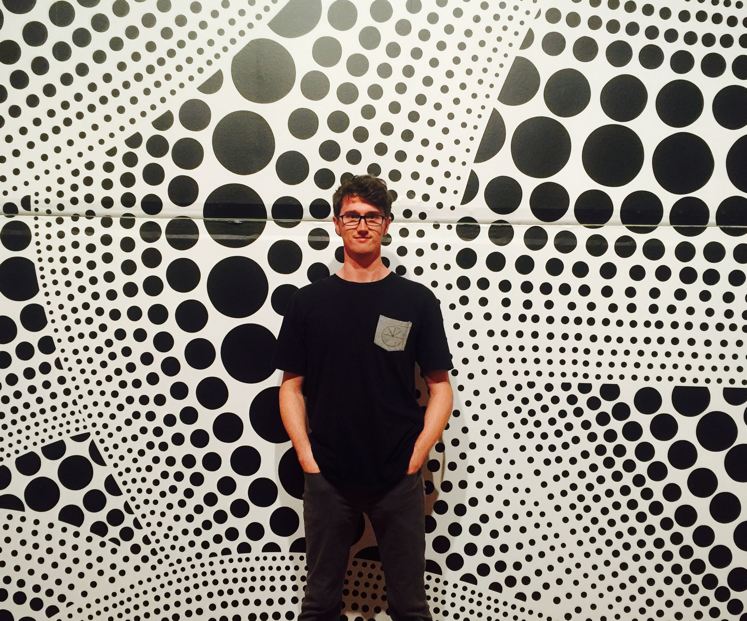
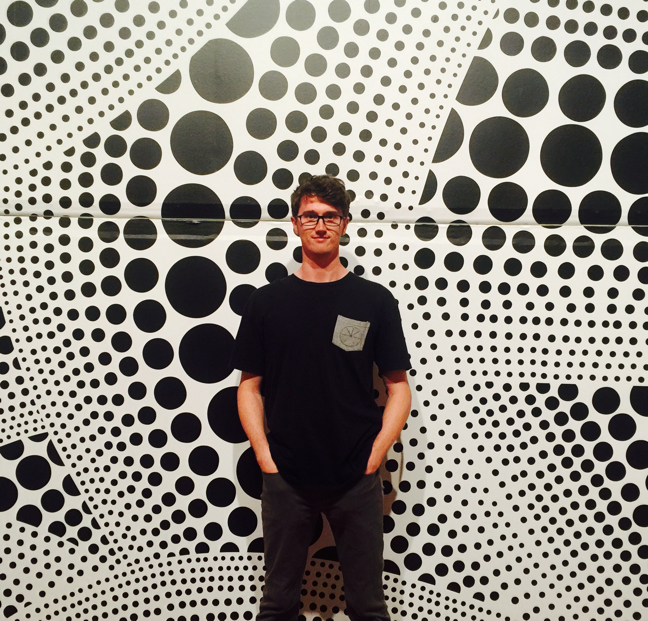
fixed images for mobile

diff --git a/src/components/Connect/style.css b/src/components/Connect/style.css
@@ -39,6 +39,9 @@
 .connect-container img {
   opacity: .8;
   cursor: pointer;
+
+  width: 100px;
+  height: auto;
 }
 
 .connect-container img:hover {
@@ -50,3 +53,11 @@
   margin-left: 10px;
   margin-right: 10px;
 }
+
+/* mobile */
+@media (max-width: 800px){
+    .connect-container img {
+      width: 75px;
+      height: auto;
+    }
+  }

diff --git a/src/components/Projects/style.css b/src/components/Projects/style.css
@@ -49,8 +49,14 @@
 @media (max-width: 800px){
     .project-text{
       margin-left: 10px;
-    }
-    .project-text{
       margin-right: 10px;
+    }
+    #projects-subtitle{
+      margin-left: 10px;
+      margin-right: 10px;
+    }
+    .project-screenshot{
+      width: 380px;
+      height: auto;
     }
   }

diff --git a/src/components/App/style.css b/src/components/App/style.css
@@ -25,7 +25,7 @@ footer{
   color:  rgba(225, 225, 225, 0.68);
   padding-top: 10px;
   padding-bottom: 10px;
-  padding-left: 15px;
+  padding-left: 30px;
 }
 
 .container-fluid {

diff --git a/src/components/Recommendation/style.css b/src/components/Recommendation/style.css
@@ -22,3 +22,11 @@ blockquote{
 #felipe-img{
   padding-top: 10px;
 }
+
+/* mobile */
+@media (max-width: 800px){
+  #felipe-img{
+    width: 340px;
+    height: auto;
+  }
+}
